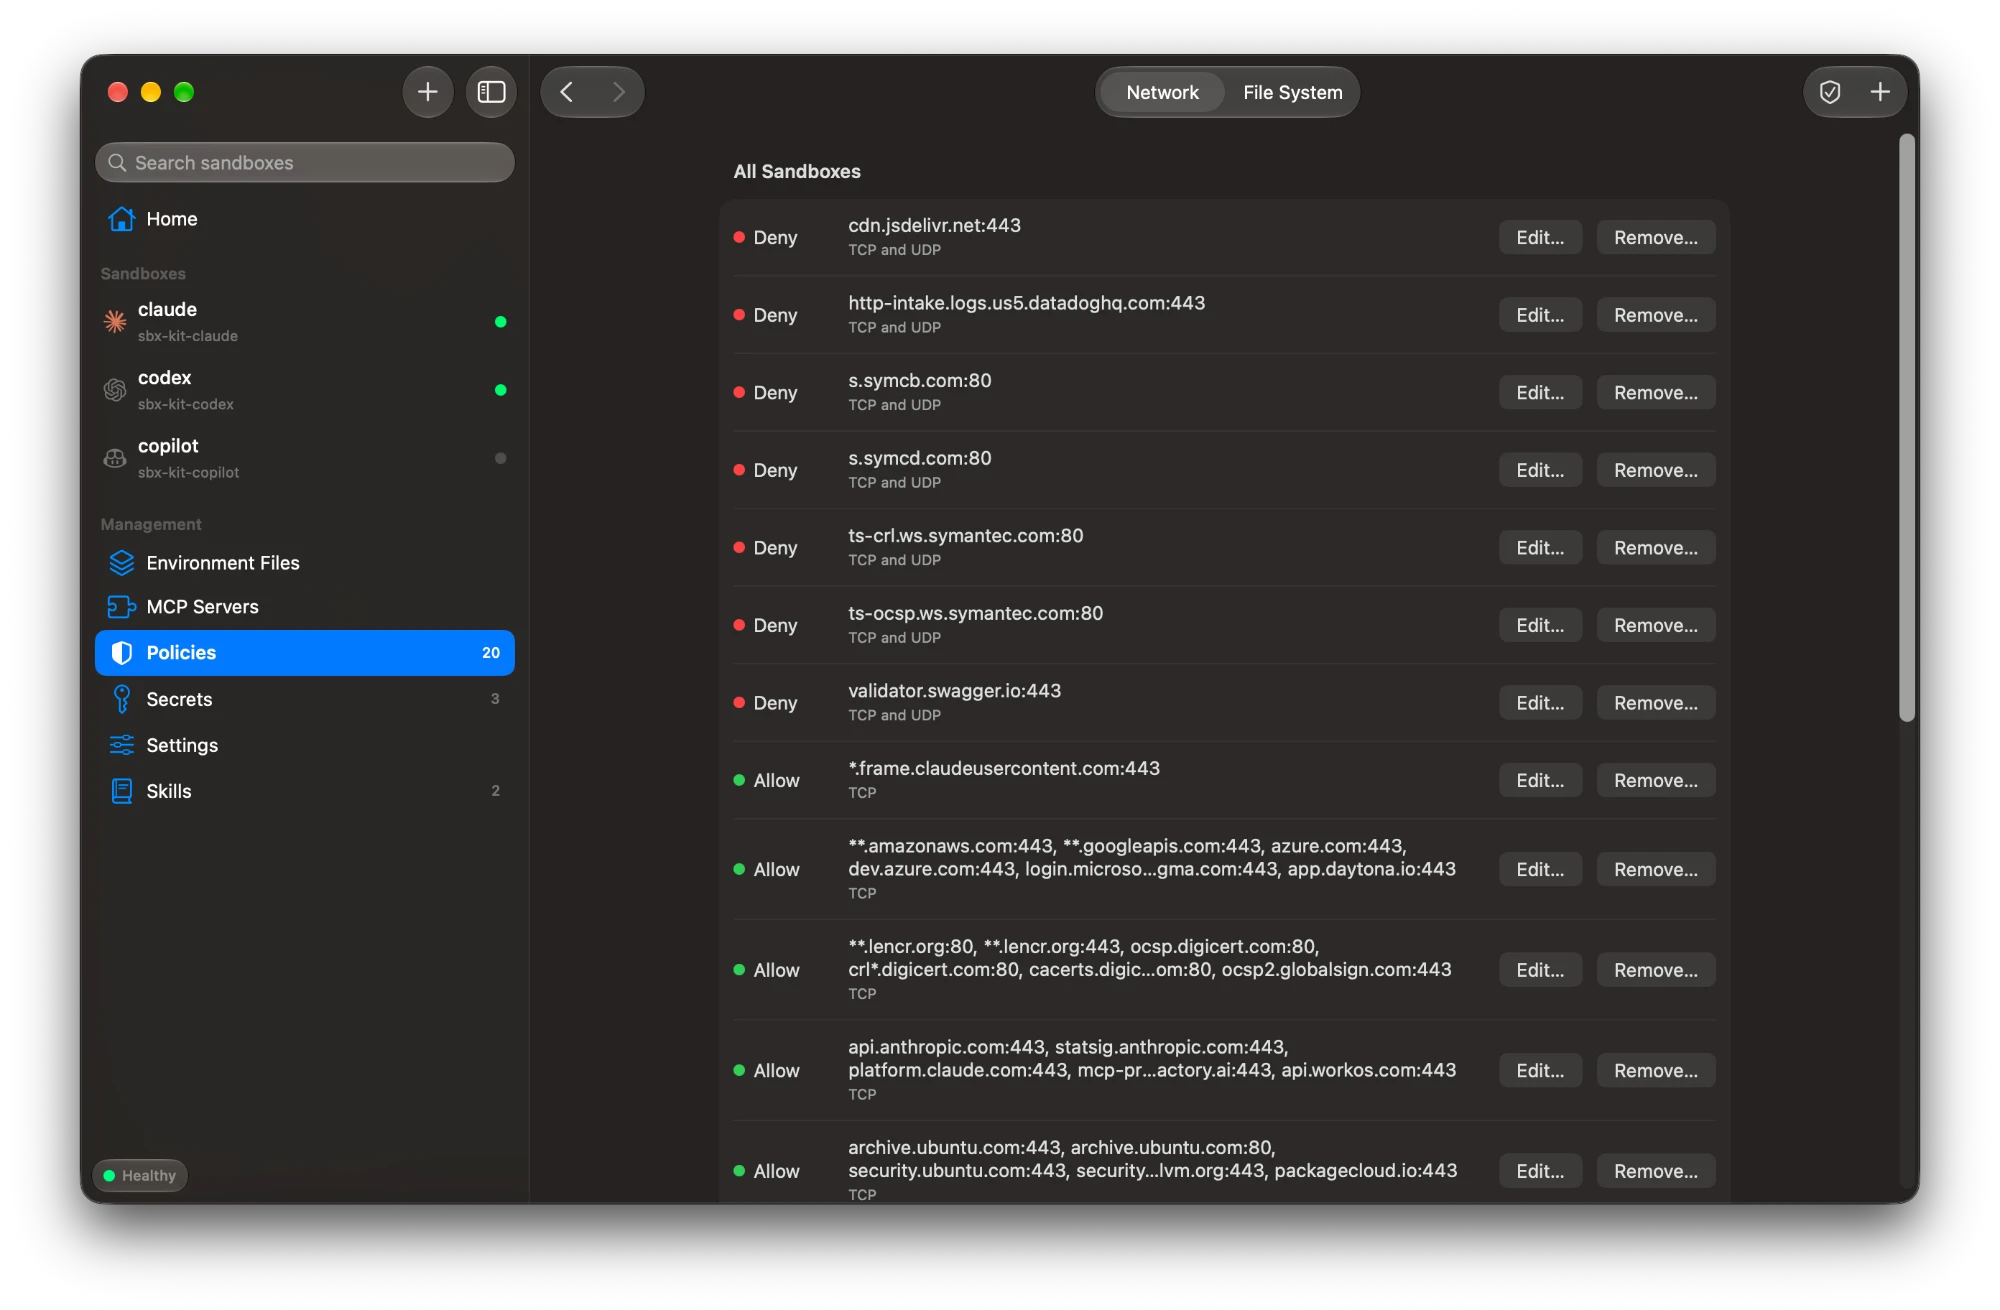
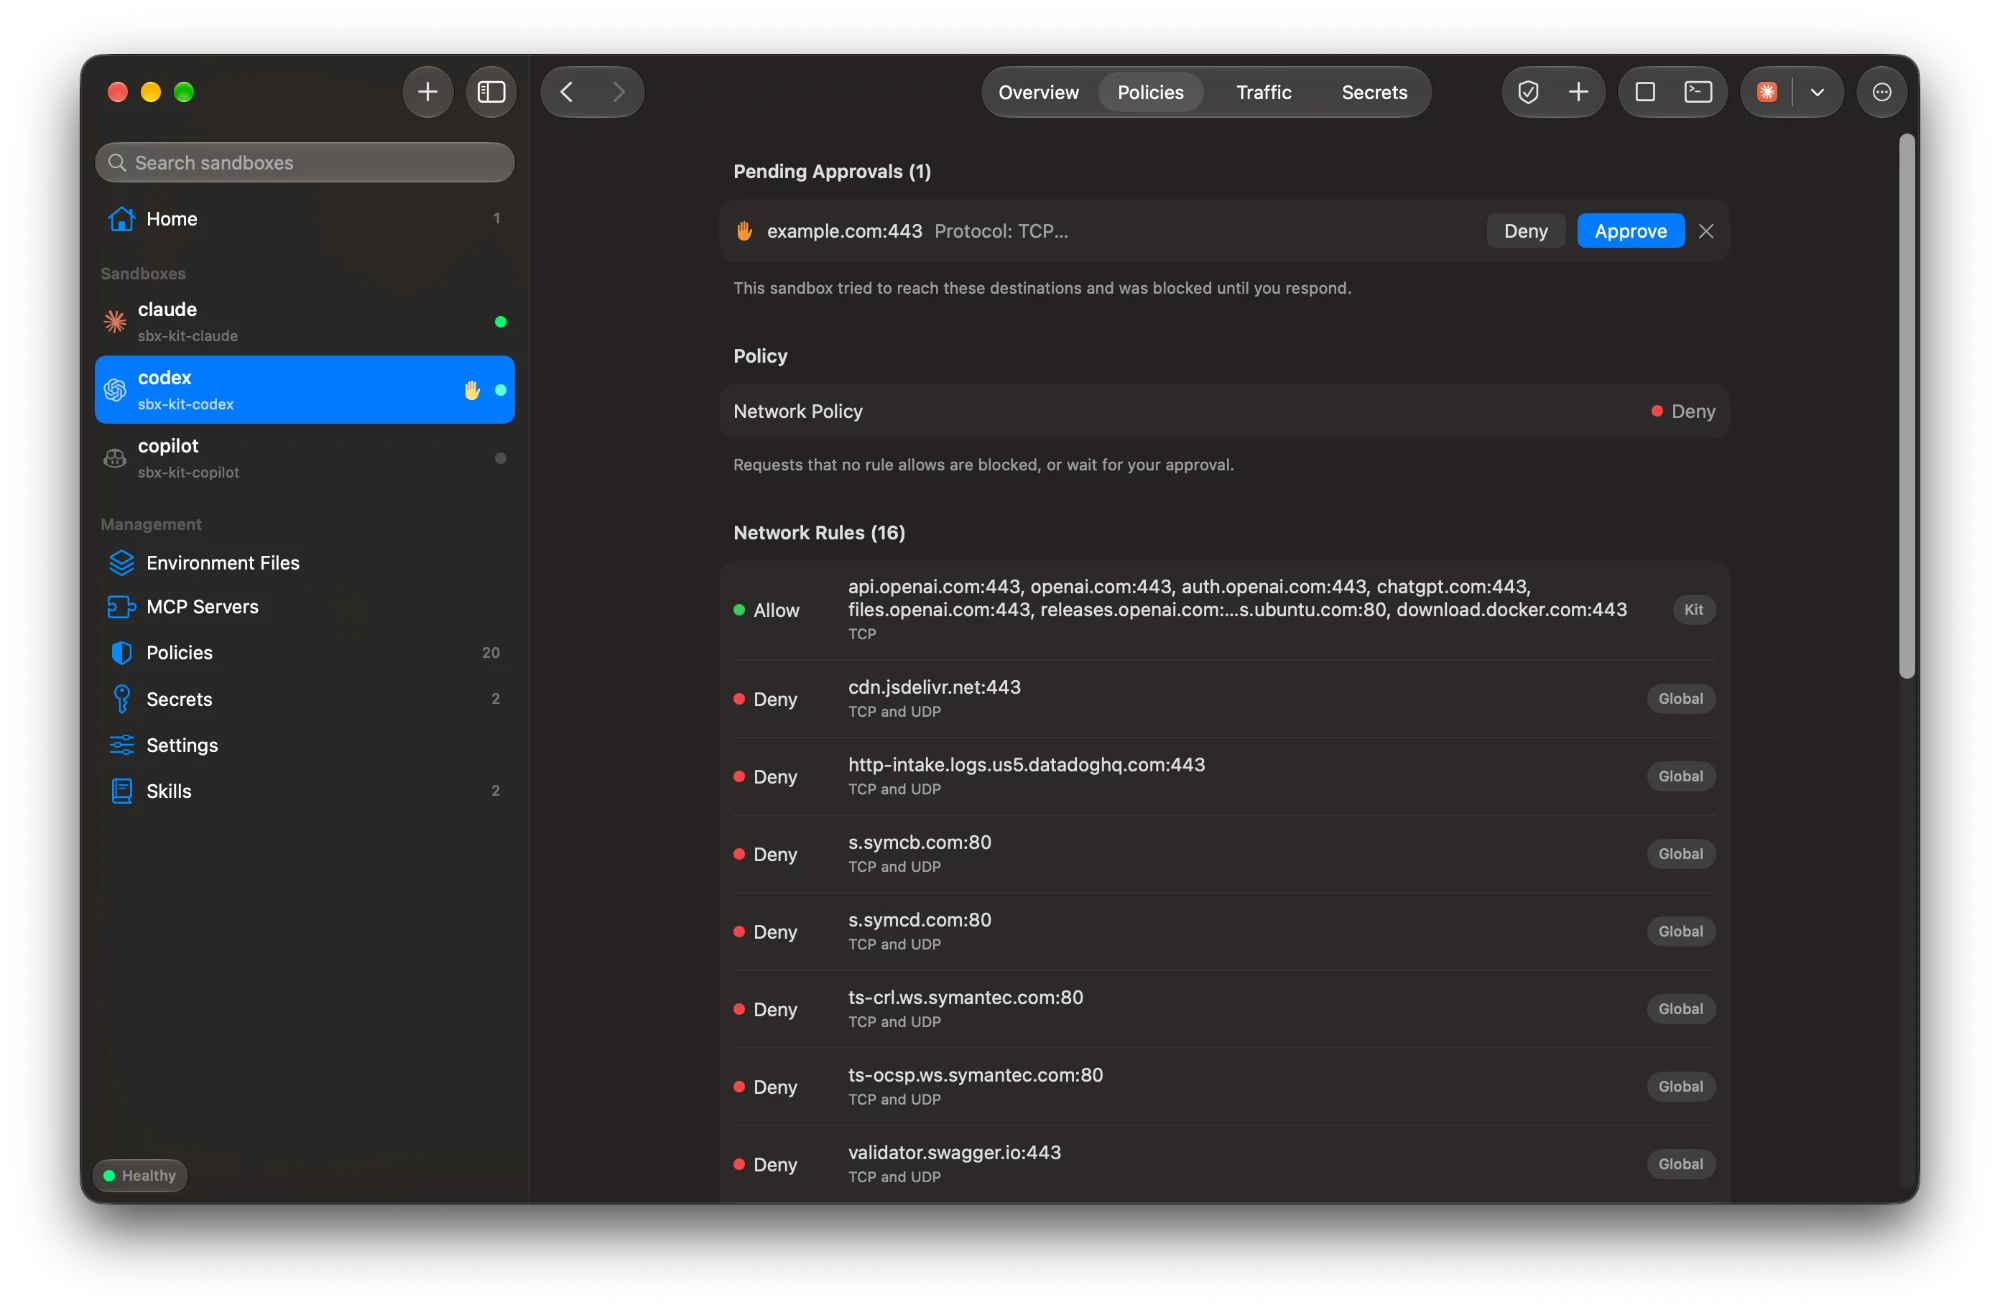
Show a pending approval and a sandbox's network rules on the website

diff --git a/site/index.html b/site/index.html
@@ -44,7 +44,7 @@
       <!-- Window screenshots (Shift-Command-4, then Space) keep their own title
            bar and shadow. Their width and height are in points, half the
            Retina capture's pixels. -->
-      <img class="shot main-shot" src="screenshots/main-window.webp" width="1000" height="655" alt="The Sandboxes main window, with three sandboxes in the sidebar, two of them running, and buttons to create a sandbox from an agent or an environment file">
+      <img class="shot main-shot" src="screenshots/main-window.webp" width="1000" height="655" alt="The Sandboxes main window, with a request from the codex sandbox to reach example.com waiting for approval, three sandboxes in the sidebar, and buttons to create a sandbox from an agent or an environment file">
     </div>
   </header>
 
@@ -76,7 +76,7 @@
               <li>See a sandbox’s network traffic, and the network and file system rules that apply to it.</li>
             </ul>
           </div>
-          <img class="shot" src="screenshots/network-policies.webp" width="1000" height="655" alt="The Policies page, listing network rules for all sandboxes, each allowing or denying a list of hosts, with buttons to edit or remove it">
+          <img class="shot" src="screenshots/network-policies.webp" width="1000" height="655" alt="A sandbox’s policies, with a pending request to approve or deny, its network policy, and the network rules that apply to it, each labelled as coming from its kit or from the global rules">
         </div>
 
         <div class="feature">
